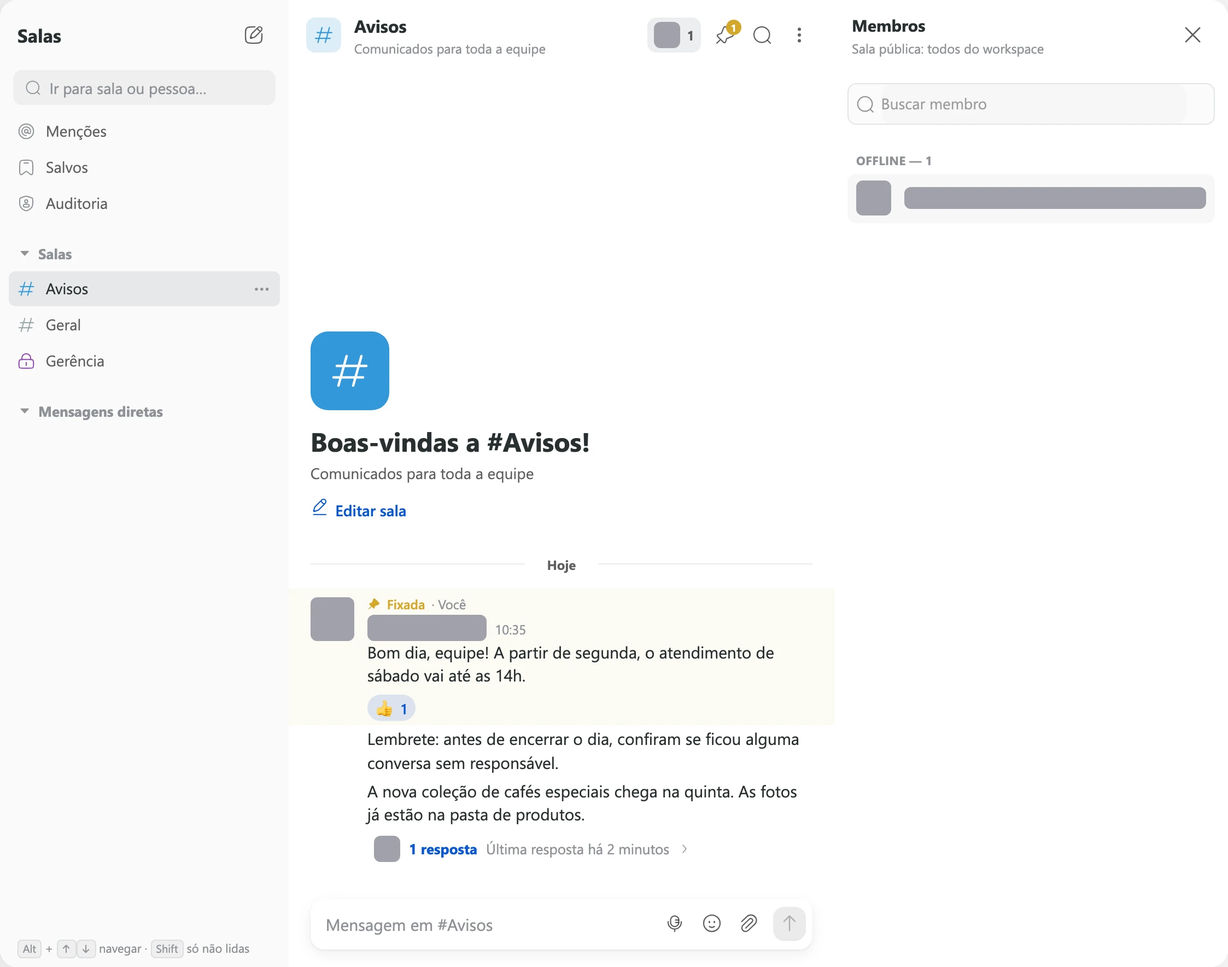
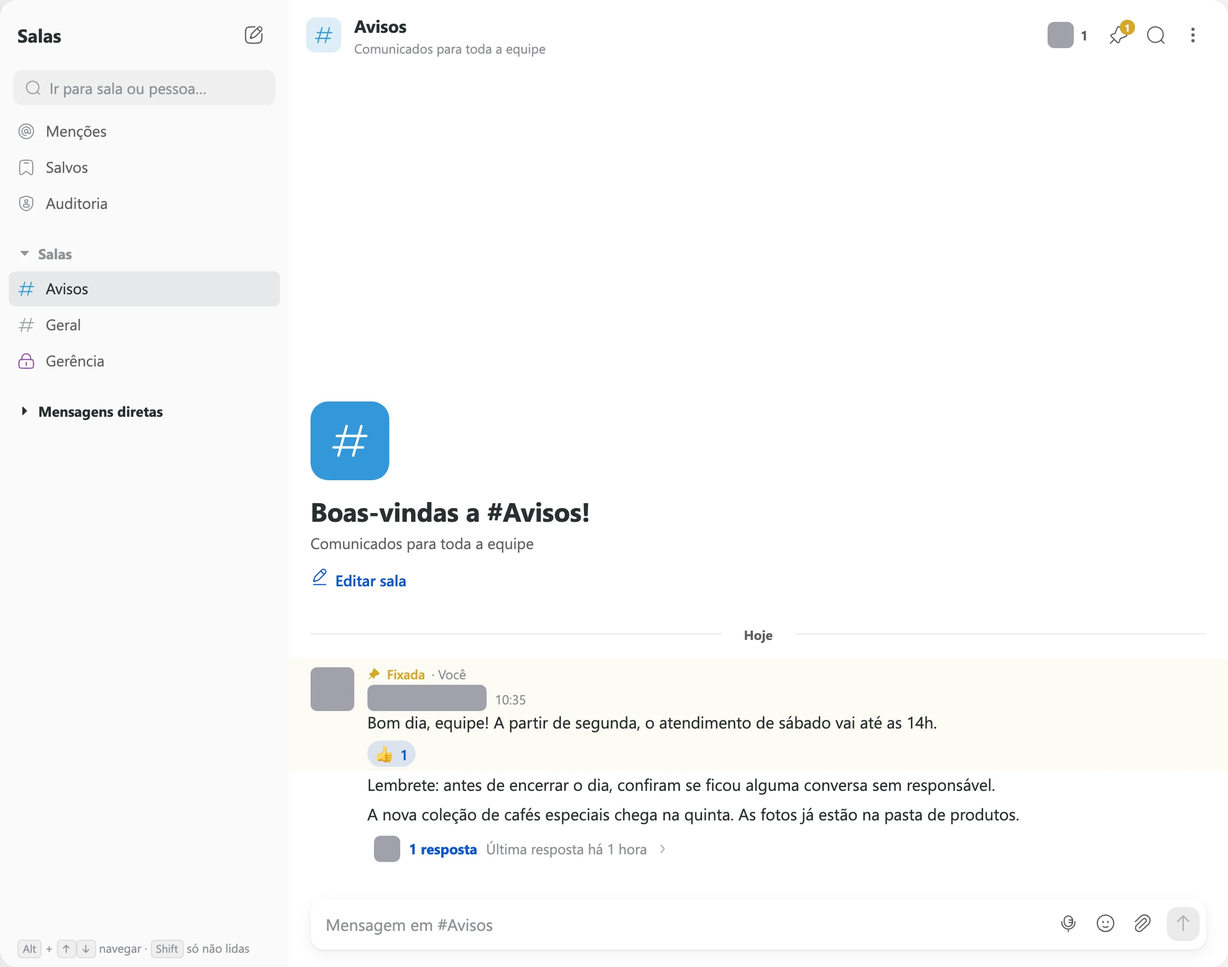
docs(ajuda): Salas, correções da rodada 1 do conselho
- Mensagens diretas por grupo: restrição enunciada como a ajuda da tela; único caminho ensinado é a seção Mensagens diretas; busca do topo só para salas; tirada a restrição de atribuição da lista do @.
- Auditoria: limpar "Ir para sala ou pessoa…" antes de concluir que falta permissão; frontmatter com a pasta do módulo.
- "Apenas no computador" virou "não disponível no app"; seção No celular em usar-salas; sem o botão de janela menor; ordem das mensagens diretas; sem Responder citando na thread; aviso de thread em mensagem direta; erro de reação; dose (toasts e estados vazios ficam na irmã); papéis prontos por extenso.
- Links da nota de avaliação pública para usar-salas#painel-membros; link de criar separado do de editar/clonar/ordenar/excluir; keywords; golden com pergunta de silenciar.
- Prints recapturados (painel sem a seção vazia e sem Membros, barra de ações sem menu, auditoria recortada); seed das salas completa o que faltar sem duplicar.

Origem: web:src/components/rooms/RoomsSidebar.tsx, RoomPanels.tsx, RoomMessageItem.tsx, RoomMessageEditor.tsx, useRoomsRealtime.tsx, RoomTimeline.tsx; web:src/components/navigation/GlobalSearch/useGlobalSearchCommands.tsx; web:src/pages/settings/roles/permissionSections.tsx; web:src/hooks/useAldeia.ts; api:src/modules/rooms/rooms.service.ts; api:src/modules/workspace-defaults/workspace-defaults.constants.ts; mobile:src/domain/rooms.ts, src/app/(tabs)/rooms/index.tsx, src/app/room-edit.tsx

diff --git a/scripts/screenshots/seed.ts b/scripts/screenshots/seed.ts
@@ -450,34 +450,47 @@ async function garantirRespostasRapidas(api: Api) {
  * Salas (prints da seção salas): a sala pública "Avisos" com mensagens internas fictícias da equipe,
  * uma fixada, uma com reação e uma resposta em thread, e a sala privada "Gerência". As mensagens
  * saem em nome da conta de teste (dona do workspace): os prints mascaram nome e foto do autor.
- * Salas são só da equipe: nada é enviado a contato.
+ * Salas são só da equipe: nada é enviado a contato. Cada sala é achada pelo nome e pela privacidade,
+ * e cada mensagem, fixação, reação e resposta só é criada se ainda faltar (rodar de novo não duplica).
  */
 async function garantirSalas(api: Api) {
   const salas = lista(await api.v0('GET', '/rooms'))
-  let avisos = salas.find((r) => r.name === 'Avisos' && r.type !== 'dm')
+  const acharSala = (name: string, privacy: string) => salas.find((r) => r.name === name && r.type !== 'dm' && (r.privacy || 'public') === privacy)
+  const eu = lista(await api.v0('GET', '/operators?limit=100')).find((o) => o.isOwner)
+  let avisos = acharSala('Avisos', 'public')
   if (!avisos) {
     avisos = await api.v0('POST', '/rooms', { name: 'Avisos', description: 'Comunicados para toda a equipe', privacy: 'public', color: '#3498db', memberIds: [] })
   }
-  if (!salas.some((r) => r.name === 'Gerência' && r.type !== 'dm')) {
-    const eu = lista(await api.v0('GET', '/operators?limit=100')).find((o) => o.isOwner)
+  if (!acharSala('Gerência', 'private')) {
     await api.v0('POST', '/rooms', { name: 'Gerência', description: 'Metas e escalas da semana', privacy: 'private', color: '#8e44ad', memberIds: eu ? [eu.id] : [] })
   }
   const avisosId = String(avisos.id || avisos._id)
-  const mensagens = lista(await api.v3('GET', `/rooms/${avisosId}/messages?limit=50`))
-  if (!mensagens.length) {
-    const textos = [
-      'Bom dia, equipe! A partir de segunda, o atendimento de sábado vai até as 14h.',
-      'Lembrete: antes de encerrar o dia, confiram se ficou alguma conversa sem responsável.',
-      'A nova coleção de cafés especiais chega na quinta. As fotos já estão na pasta de produtos.',
-    ]
-    const criadas: any[] = []
-    for (const text of textos) criadas.push(await api.v0('POST', `/rooms/${avisosId}/messages`, { text, type: 'text' }))
-    const [primeira, , terceira] = criadas.map((m) => String(m._id || m.id))
-    await api.v3('POST', `/rooms/${avisosId}/messages/${primeira}/pin`, {})
-    await api.v3('POST', `/rooms/${avisosId}/messages/${primeira}/reactions`, { emoji: '👍' })
-    await api.v3('POST', `/rooms/${avisosId}/messages/${terceira}/thread`, { text: 'Combinado. Vou atualizar as frases rápidas com os novos sabores.', type: 'text' })
+  const textos = [
+    'Bom dia, equipe! A partir de segunda, o atendimento de sábado vai até as 14h.',
+    'Lembrete: antes de encerrar o dia, confiram se ficou alguma conversa sem responsável.',
+    'A nova coleção de cafés especiais chega na quinta. As fotos já estão na pasta de produtos.',
+  ]
+  const resposta = 'Combinado. Vou atualizar as frases rápidas com os novos sabores.'
+  const listar = async () => lista(await api.v3('GET', `/rooms/${avisosId}/messages?limit=50`)).filter((m) => !m.threadId)
+  let mensagens = await listar()
+  for (const text of textos) {
+    if (!mensagens.some((m) => m.text === text)) await api.v0('POST', `/rooms/${avisosId}/messages`, { text, type: 'text' })
   }
-  log(`salas: "Avisos" (pública, ${mensagens.length || 3} mensagens) e "Gerência" (privada)`)
+  mensagens = await listar()
+  const [primeira, , terceira] = textos.map((text) => mensagens.find((m) => m.text === text))
+  const idDe = (m: any) => String(m._id || m.id)
+  if (!primeira.pinnedAt) await api.v3('POST', `/rooms/${avisosId}/messages/${idDe(primeira)}/pin`, {})
+  const meuId = String(eu?.id ?? '')
+  const joinha = (primeira.reactions || []).find((r: any) => r.emoji === '👍')
+  // A rota de reação alterna: só reage se a conta ainda não reagiu com 👍
+  if (!joinha || (meuId && !(joinha.operatorIds || []).map(String).includes(meuId))) {
+    await api.v3('POST', `/rooms/${avisosId}/messages/${idDe(primeira)}/reactions`, { emoji: '👍' })
+  }
+  const thread = await api.v3('GET', `/rooms/${avisosId}/messages/${idDe(terceira)}/thread`)
+  if (!lista(thread?.replies ?? thread).some((m) => m.text === resposta)) {
+    await api.v3('POST', `/rooms/${avisosId}/messages/${idDe(terceira)}/thread`, { text: resposta, type: 'text' })
+  }
+  log(`salas: "Avisos" (pública, ${textos.length} mensagens, fixada, reação e resposta) e "Gerência" (privada)`)
 }
 
 /** Agente de IA criado pelo mesmo caminho do onboarding. Nasce desligado e sem canal. */

diff --git a/llm/salas/usar-salas.md b/llm/salas/usar-salas.md
@@ -10,7 +10,6 @@ fontes:
   - web:src/components/rooms/RoomPanels.tsx
   - web:src/components/rooms/rooms.helpers.ts
   - web:src/components/rooms/useRoomMenu.tsx
-  - web:src/components/rooms/RoomAuditView.tsx
   - web:src/pages/settings/roles/permissionSections.tsx
   - api:src/modules/rooms/rooms.service.ts
   - api:src/modules/rooms/rooms.dto.ts
@@ -27,8 +26,8 @@ verificado_em: 2026-11-26
 ## Onde fica, modos de abrir e atalhos
 
 - **Acesso:** botão **Salas** (ícone **@**) no topo da tela, à direita (não existe item no menu lateral nem em **Configurações**). Mostra número amarelo com o total de não lidas (`99+` a partir de 100); salas silenciadas não entram na conta.
-- **Busca do topo:** **Pesquisar** (`Ctrl+K` / `⌘K`, descrita em [Caixa de entrada: visão geral](/docs/conversas/caixa-de-entrada-do-kinbox)) exibe os grupos **Salas** e **Mensagens Diretas** para quem tem acesso às salas e abre direto na sala ou pessoa escolhida.
-- **Modos de exibição (computador):** alternados pelo botão no topo da lista — na lateral em tela maior (padrão; dica "Abrir as salas em uma janela menor") ou em janela menor presa ao botão **Salas** (dica "Abrir as salas na lateral, em tela maior"). No navegador do celular, exibe uma coluna por vez. Ao abrir sem sala escolhida, abre a primeira sala da lista.
+- **Busca do topo:** **Pesquisar** (`Ctrl+K` / `⌘K`, descrita em [Caixa de entrada: visão geral](/docs/conversas/caixa-de-entrada-do-kinbox)) exibe o grupo **Salas** para quem tem acesso às salas e abre direto na sala escolhida.
+- **Exibição:** no computador, o painel abre na lateral, em tela maior. No navegador do celular, abre em tela cheia, uma coluna por vez. Ao abrir sem sala escolhida, abre a primeira sala da lista.
 - **Colunas e lista:** lista à esquerda (busca "Ir para sala ou pessoa…" sem diferenciar acento ou maiúscula; atalhos **Menções**, **Salvos** e **Auditoria**, que somem enquanto há texto na busca; seções recolhíveis **Salas** e **Mensagens diretas**, com estado salvo no navegador), sala no centro e painel auxiliar à direita (**Membros**, **Mensagens fixadas**, busca ou **Thread**). Em telas largas, **Membros** abre sozinho até ser fechado pelo **X**.
 - **Sinais na lista:** nome em negrito e contagem para não lidas (`99+` a partir de 100); **#** para sala pública e cadeado para sala privada; sino cortado e nome esmaecido para sala silenciada; lápis ("Rascunho") para texto não enviado (salvo por sala no navegador).
 - **Atalhos de teclado:**
@@ -45,8 +44,8 @@ verificado_em: 2026-11-26
 | Ação | Condição |
 | --- | --- |
 | Usar as salas e receber avisos delas | Todo membro sem a restrição **Não pode acessar as salas** (quadro **Restrições** da seção **Outros**). O proprietário nunca é bloqueado |
-| Ver e enviar mensagens diretas para qualquer colega | Acesso às salas e ausência da restrição **Só pode ver membros que sejam dos seus grupos nos DMs.** (quadro **Restrições** da seção **Outros**; com ela, só colegas com algum grupo em comum). O proprietário não sofre a restrição |
-| Criar, editar, clonar, ordenar e excluir salas; adicionar pessoas em sala privada | Permissão **Salas** (seção **Gerenciamento do Ambiente**) ou proprietário. Os papéis prontos **Atendente** e acima trazem essa permissão. A ordem das salas vale para todo o workspace |
+| Ver e mandar mensagens diretas | Acesso às salas. Com a restrição **Só pode ver membros que sejam dos seus grupos nos DMs.** (quadro **Restrições** da seção **Outros**), o membro só vê e manda mensagem direta para colegas que têm algum grupo em comum com ele. O proprietário não sofre a restrição |
+| Criar, editar, clonar, ordenar e excluir salas; adicionar pessoas em sala privada | Permissão **Salas** (seção **Gerenciamento do Ambiente**) ou proprietário. Os papéis prontos **Atendente**, **Supervisor** e **Administrador** trazem essa permissão. A ordem das salas vale para todo o workspace |
 | Mandar mensagem, reagir, responder, fixar/desafixar, salvar e buscar | Qualquer membro com acesso à sala (não depende da permissão **Salas**) |
 | Editar mensagem | Apenas o autor da mensagem, e apenas mensagens de texto (sem prazo) |
 | Excluir mensagem | O autor (próprias mensagens) ou o proprietário (qualquer mensagem). A permissão **Salas** não permite excluir mensagens de outros membros |
@@ -58,7 +57,7 @@ verificado_em: 2026-11-26
 ## Quem vê o quê
 
 - **Sala pública:** todos os membros do workspace que têm acesso às salas. O painel **Membros** exibe "Sala pública: todos do workspace".
-- **Sala privada:** apenas os membros escolhidos em **Membros** (uma sala privada precisa ter pelo menos um membro; na criação, o criador já vem marcado e não pode se remover) e o **proprietário**, que vê todas as salas do workspace, inclusive as privadas de que não participa.
+- **Sala privada:** apenas os membros escolhidos em **Membros** (na criação no computador, quem cria já vem marcado e não pode se remover; no app, você precisa permanecer na lista de membros de uma sala privada) e o **proprietário**, que vê todas as salas do workspace, inclusive as privadas de que não participa.
 - **Mensagem direta:** aparece na lista apenas das duas pessoas. Mensagens diretas de outros membros não aparecem na lista nem na busca **Todas as salas** do proprietário. A tela exibe "Este é o início da sua conversa com {{name}}. Só vocês dois veem estas mensagens.", mas o proprietário e quem tem **Auditar mensagens diretas** podem lê-la em modo somente leitura pela **Auditoria**, exceto as que envolvem o proprietário.
 - **Sala Geral:** todo workspace novo nasce com a sala pública **Geral**, que é uma sala comum e pode ser editada ou excluída por quem tem a permissão **Salas** ou pelo proprietário.
 - **Cliente:** nunca vê nada das salas nem das mensagens diretas; nada é enviado por canal, bot ou agente de IA. Para notas internas dentro de uma conversa com contato, veja [Atender uma conversa: responder, notas, resolver e reabrir](/docs/conversas/gerenciar-conversas).
@@ -68,23 +67,22 @@ verificado_em: 2026-11-26
 
 - **Arquivos:** até **10 arquivos por envio** (passando disso: "Envie no máximo 10 arquivos"). Cada arquivo vira uma mensagem separada, e o texto digitado vai em uma mensagem própria. Aceita clipe **Anexar arquivo**, colar no campo ou arrastar para a sala ("Solte para enviar").
 - **Áudio:** gravação pelo microfone **Gravar áudio** apenas fora de threads.
-- **Limite de texto:** até **10.000 caracteres** na edição de mensagens e nas respostas de thread.
 - **Formatação e emojis:** `*negrito*` ou `**negrito**`, `_itálico_`, `~riscado~`, `` `código` ``, bloco entre ```` ``` ````, citação com `>` no começo da linha; links ficam clicáveis. Mensagem composta apenas por emojis (até 6) aparece grande. Digitar `:` e duas letras sugere até 8 emojis.
 - **Indicador de digitação:** mostra "{{name}} está digitando", "{{a}} e {{b}} estão digitando" ou "Várias pessoas estão digitando" abaixo da sala.
 - **Falha no envio:** mensagem que falhou fica marcada como "Erro ao enviar" com o link **Tentar novamente** (para texto). Em mensagem direta, falha no primeiro envio mostra "Erro ao enviar DM" e devolve o texto ao campo. As ações ficam indisponíveis em mensagens ainda enviando ou com erro.
-- **Menções (`@`):** abre **Mencionar** com até 8 membros ativos que já aceitaram o convite. Menciona uma pessoa por vez (não existe menção coletiva). Se o papel tiver a restrição **Somente pode atribuir para quem pertence ao grupo do membro** (seção **Conversas**), a lista do **@** mostra apenas colegas que têm algum grupo em comum com você.
-- **Reações:** até **30 emojis diferentes por mensagem** (ao atingir: "Limite de reações da mensagem atingido"). Passar o mouse mostra "{{names}} reagiu com {{emoji}}"; clicar de novo no mesmo emoji remove a reação.
-- **Responder citando:** o campo mostra "Respondendo" com nome e início da mensagem; clicar na citação leva à original. Se a original foi excluída, mostra "Mensagem original não encontrada".
+- **Menções (`@`):** abre **Mencionar** com até 8 membros ativos que já aceitaram o convite. Menciona uma pessoa por vez (não existe menção coletiva).
+- **Reações:** até **30 emojis diferentes por mensagem** (ao atingir: "Limite de reações da mensagem atingido"; se a reação falhar: "Não foi possível reagir. Tente novamente."). Passar o mouse mostra "{{names}} reagiu com {{emoji}}"; clicar de novo no mesmo emoji remove a reação.
+- **Responder citando:** o campo mostra "Respondendo" com nome e início da mensagem; clicar na citação leva à original. Se a original foi excluída, mostra "Mensagem original não encontrada". Não existe dentro da thread.
 - **Thread:** respostas ficam agrupadas no painel **Thread** (não aparecem soltas na sala e não há opção de enviar também na sala). Responder a uma resposta continua na mesma thread. Carrega até **500 respostas**.
-- **Editar:** marca a mensagem com "(editado)". Mensagens de erro: "Não foi possível editar a mensagem", "Só o autor pode editar a mensagem", "Só mensagens de texto podem ser editadas".
-- **Excluir:** confirmação "Tem certeza que deseja excluir essa mensagem?" (com thread, inclui "As respostas da thread também serão excluídas.") e aviso "Mensagem removida". A exclusão é definitiva, remove para todos e retira dos **Salvos** de todos.
+- **Editar:** marca a mensagem com "(editado)". Mensagens de erro: "Não foi possível editar a mensagem", "Só o autor pode editar a mensagem", "Só mensagens de texto podem ser editadas". Salvar a edição sem texto (ou sem mudança) só fecha a edição, sem alterar a mensagem.
+- **Excluir:** confirmação "Tem certeza que deseja excluir essa mensagem?" (com thread, inclui "As respostas da thread também serão excluídas.") e aviso "Mensagem removida". A opção **Excluir** aparece só para o autor e para o proprietário. A exclusão é definitiva, remove para todos e retira dos **Salvos** de todos.
 - **Copiar texto:** mostra "Copiado"; em mensagem de arquivo, copia a descrição curta (por exemplo, "📷 Imagem").
 - **Fixar na sala:** mostra "Mensagem fixada na sala" ou "Mensagem desafixada", exibe o selo **Fixada** com quem fixou e funciona também em mensagens diretas. O painel **Mensagens fixadas** lista até **100** mensagens (mais recentes primeiro) e exibe "Nada fixado ainda" quando vazio.
 - **Salvar para depois:** privado de cada membro; mostra "Mensagem salva. Veja em Salvos". O painel **Salvos** lista até **200** mensagens ("Nada salvo ainda" quando vazio). Se a mensagem for excluída ou o membro perder acesso à sala, ela sai dos salvos.
 
 ## Mensagens diretas, Menções, Salvos e busca
 
-- **Mensagens diretas:** passam a existir no primeiro envio; não é possível mandar mensagem direta para si mesmo; listam os colegas que já aceitaram o convite (membros inativos aparecem esmaecidos); topo exibe "Online", "Online · Indisponível" ou "Offline"; "Visto" aparece abaixo da última mensagem lida (exclusivo de mensagem direta). Sem painel **Membros** nem menu **⋮** no computador. Se um colega for removido do workspace, a conversa continua e aparece como "Mensagem direta".
+- **Mensagens diretas:** passam a existir no primeiro envio; não é possível mandar mensagem direta para si mesmo; listam os colegas que já aceitaram o convite, com quem conversou com você por último primeiro (membros inativos aparecem esmaecidos); topo exibe "Online", "Online · Indisponível" ou "Offline"; "Visto" aparece abaixo da última mensagem lida (exclusivo de mensagem direta). Sem painel **Membros** nem menu **⋮** no computador. Se um colega for removido do workspace, a conversa continua e aparece como "Mensagem direta".
 - **Menções:** reúne mensagens de todas as salas, 30 por vez com **Carregar mais** (mensagens que você mesmo escreveu não entram; vazio: "Nenhuma menção por aqui"). Clicar leva à mensagem e abre a thread, se for resposta.
 - **Buscar mensagens:** painel **Buscar mensagens** (lupa no topo), campo "Buscar por texto…", escopo **Nesta sala** (**Nesta conversa** em mensagem direta) ou **Todas as salas** (inclui suas mensagens diretas, nunca as dos outros; inclui respostas de threads). Exige entre **2 e 100 caracteres** ("Digite pelo menos 2 letras para buscar." / "A busca precisa ter entre 2 e 100 caracteres"), não diferencia maiúsculas, busca apenas no texto (não por autor nem arquivo), retorna até **30 resultados** e exibe "Nenhuma mensagem encontrada" quando não há resultado.
 
@@ -93,7 +91,7 @@ verificado_em: 2026-11-26
 - **Leitura:** abrir a sala marca como lida (ou **Marcar como lida** no menu da sala). Primeira abertura exibe a linha vermelha **Novas**; ao ler mensagens antigas, aparece o botão de novas mensagens / "Ir para o fim". Separadores "Hoje" e "Ontem"; mensagens antigas carregam ao rolar.
 - **Silenciar:** por pessoa. Aviso "Sala silenciada: você só será notificado quando for mencionado" / "Notificações da sala ativadas". Não soma no botão **Salas**, fica esmaecida com sino cortado na lista e mostra "Sala silenciada" no topo. Mensagem direta não tem menu para silenciar no computador (no app, segurar a linha exibe **Silenciar**).
 - **Avisos no navegador (Kinbox aberta):** ao chegar mensagem de outra pessoa, avisa se for mensagem direta, sala não silenciada ou sala silenciada que menciona você. Com o painel **Salas** fechado: aviso no canto por 5 segundos com autor, início do texto e sala (clicar abre a sala). Com o painel aberto em outra sala: apenas som. Com a própria sala aberta: nada, e a mensagem já conta como lida. O som segue **Quando receber mensagem de time** em **Configurações** → **Notificações** (ligada por padrão).
-- **Avisos em thread:** resposta em thread avisa quem foi mencionado, quem participa da thread e o autor da mensagem original, mesmo em sala silenciada, se a pessoa não estiver com aquela thread aberta.
+- **Avisos em thread:** resposta em thread avisa quem foi mencionado, quem participa da thread, o autor da mensagem original e, em mensagem direta, a outra pessoa, mesmo em sala silenciada, se a pessoa não estiver com aquela thread aberta.
 - **Push (navegador fechado e celular):** a opção **Mensagem de time** (no app: **Mensagens diretas e menções**) envia push apenas quando mencionam você em uma sala ou mandam uma mensagem direta; mensagens comuns de sala sem menção não geram push. No app, salas silenciadas não geram push ("Salas silenciadas não geram alertas."). Veja [Receber notificações no navegador e no celular](/docs/conta/notificacoes).
 
 ## Auditoria de mensagens diretas
@@ -107,6 +105,7 @@ verificado_em: 2026-11-26
 ## No celular
 
 - O app da Kinbox para celular tem a aba **Salas** (entre **Conversas** e **Agenda**) com o mesmo conteúdo do computador.
-- Algumas ações só existem no computador (não estão disponíveis no app): reagir, responder em thread, editar mensagem, fixar, salvar, buscar mensagens dentro da sala, listas **Menções** e **Salvos**, **Auditoria** e a lista **@** para mencionar (menções feitas no computador aparecem destacadas no app).
+- Não estão disponíveis no app: reagir, responder em thread, editar mensagem, fixar, salvar, buscar mensagens dentro da sala, listas **Menções** e **Salvos**, **Auditoria** e a lista **@** para mencionar (menções feitas no computador aparecem destacadas no app).
+- Pelo navegador do celular, sem o app, o painel **Salas** abre em tela cheia, uma coluna por vez.
 
 Veja os guias completos em [Salas: o chat interno da equipe](/docs/salas/visao-geral), [Conversar nas salas: mensagens diretas, menções e threads](/docs/salas/usar-salas) e [Auditar as mensagens diretas dos membros](/docs/salas/auditar-mensagens-diretas).

diff --git a/llm/faq/salas-no-celular.md b/llm/faq/salas-no-celular.md
@@ -24,18 +24,18 @@ Posso usar as salas pelo celular?
 
 ## Resposta
 
-Sim. No app da Kinbox para celular, a aba **Salas** mostra as salas e as mensagens diretas da equipe: dá para ler, escrever, mandar fotos, arquivos e áudio, apagar as próprias mensagens, silenciar salas e criar ou editar salas (com a permissão **Salas**). Algumas coisas só existem no computador: reagir, responder em thread, editar mensagem, fixar, salvar, buscar mensagens, a lista de **Menções** e a **Auditoria**.
+Sim. No app da Kinbox para celular, a aba **Salas** mostra as salas e as mensagens diretas da equipe: dá para ler, escrever, mandar fotos, arquivos e áudio, apagar as próprias mensagens, silenciar salas e criar ou editar salas (com a permissão **Salas**). Algumas coisas não estão disponíveis no app: reagir, responder em thread, editar mensagem, fixar, salvar, buscar mensagens, a lista de **Menções** e a **Auditoria**.
 
 A aba **Salas** é a segunda aba do app (entre **Conversas** e **Agenda**) e mostra o total de mensagens não lidas (`99+` a partir de 100), sem contar salas silenciadas. Para quem tem a restrição **Não pode acessar as salas**, a aba exibe "Sem acesso às salas" — "Seu perfil não permite acessar o chat do time neste workspace." — e o botão **Trocar workspace** (o proprietário nunca é bloqueado).
 
 O que dá para fazer no app:
 
-- **Lista:** buscar em "Buscar sala ou colega" nas seções **Salas** e **Mensagens diretas**. Segurar uma linha mostra **Ver perfil** (em mensagem direta), **Marcar como lida** e **Silenciar** / **Reativar notificações**.
+- **Lista:** buscar em "Buscar sala ou colega" nas seções **Salas** e **Mensagens diretas**. Segurar uma linha mostra **Ver perfil** (em mensagem direta), **Marcar como lida** (quando há mensagens não lidas) e **Silenciar** / **Reativar notificações**.
 - **Mensagens:** ler (30 por vez), escrever, anexar pelo **+** (**Câmera**, **Fotos** e **Arquivos**, até 10 por vez) e gravar áudio. Segurar uma mensagem abre **Responder** (citando, sem thread), **Copiar** (texto) e **Apagar** (apenas o autor ou o proprietário).
-- **Mensagens diretas:** tocar no colega em **Mensagens diretas**; a conversa nasce no primeiro envio. Com a restrição **Só pode ver membros que sejam dos seus grupos nos DMs.**, só aparecem colegas do seu grupo.
-- **Criar e gerenciar salas (com a permissão Salas ou sendo proprietário):** tocar em **Nova sala**, preencher **Nome**, descrição, **Cor**, **Privacidade** (**Pública · todo o workspace** ou **Privada · só membros escolhidos**) e **Membros** e salvar em **Salvar sala**. Ao tocar no nome da sala no topo, aparecem **Descrição**, **Notificações** (com a chave **Silenciar**), **Membros** e, para quem tem a permissão **Salas**, **Editar sala** e **Excluir sala**.
+- **Mensagens diretas:** tocar no colega em **Mensagens diretas**; a conversa nasce no primeiro envio. Com a restrição **Só pode ver membros que sejam dos seus grupos nos DMs.**, você só vê e manda mensagem direta para colegas que têm algum grupo em comum com você.
+- **Criar e gerenciar salas (com a permissão Salas ou sendo proprietário):** tocar em **Nova sala**, preencher **Nome**, descrição, **Cor**, **Privacidade** (**Pública · todo o workspace** ou **Privada · só membros escolhidos**) e, só em sala privada, **Membros**, e salvar em **Salvar sala**. Sem nome, o app avisa "Dê um nome para a sala."; numa sala privada, você precisa continuar na lista de membros ("Você precisa ser membro de uma sala privada."). Ao tocar no nome da sala no topo, aparecem **Descrição**, **Notificações** (com a chave **Silenciar**), **Membros** e, para quem tem a permissão **Salas**, **Editar sala** e **Excluir sala**.
 
-O que só existe no computador (não está disponível no app): reagir, responder em thread, editar mensagem, fixar, salvar, buscar mensagens dentro da sala, listas **Menções** e **Salvos**, **Auditoria** e a lista **@** para mencionar (menções feitas no computador aparecem destacadas no app).
+O que não está disponível no app: reagir, responder em thread, editar mensagem, fixar, salvar, buscar mensagens dentro da sala, listas **Menções** e **Salvos**, **Auditoria** e a lista **@** para mencionar (menções feitas no computador aparecem destacadas no app).
 
 - **Notificações:** em **Você** → **Notificações**, seção **Salas**, a opção **Mensagens diretas e menções** (ligada por padrão) avisa menções e mensagens diretas. Salas silenciadas não geram push no app ("Salas silenciadas não geram alertas."), e o aviso não se repete com a sala aberta. Veja [Receber notificações no navegador e no celular](/docs/conta/notificacoes).
 - **Sem internet:** a lista salva continua aparecendo ("Sem conexão · mostrando salas salvas") e o envio fica desativado.

diff --git a/llm/faq/conta-nao-recebo-notificacoes.md b/llm/faq/conta-nao-recebo-notificacoes.md
@@ -40,7 +40,7 @@ Principais causas quando os avisos não chegam:
 - **Outro workspace:** as opções de **Push** valem só para o workspace aberto; configure também nos outros workspaces de que você participa.
 - **Som não toca:** o interruptor correspondente está desligado no cartão **Som**, a Kinbox não está aberta, você está **Indisponível** (manualmente, por inatividade ou por horário do papel; os sons de nova mensagem e de nova conversa só tocam com você disponível) ou a conversa não é a que está aberta nem está na visão ou no filtro selecionado da **Caixa de entrada**. Com várias abas abertas, o som toca só em uma. Depois de "Você foi desconectado por inatividade.", nenhum som toca até você clicar em **Reconectar**.
 - **No celular:** confira no app, em **Você** → **Notificações**, se **Receber notificações** está ligado (ele é independente de **Habilitar notificações de desktop**); se **Quando receber** estiver em **Quando não estiver usando o web**, o celular não avisa enquanto você usa a Kinbox no navegador (aba visível e em uso); com **Só no horário comercial** ligado, o app só avisa dentro do horário padrão do workspace. Com a conversa ou a sala aberta no app, o aviso não se repete, e salas que você silenciou não geram push no app.
-- **Salas bloqueadas:** membros com a restrição **Não pode acessar as salas** no papel não recebem push de salas no app. No app, sala silenciada também não gera push (veja [Conversar nas salas: mensagens diretas, menções e threads](/docs/salas/usar-salas)).
+- **Salas bloqueadas:** membros com a restrição **Não pode acessar as salas** no papel não recebem push de salas no app. Veja [Conversar nas salas: mensagens diretas, menções e threads](/docs/salas/usar-salas).
 - **Não recebo novas conversas (diferente de não receber avisos):** se novas conversas não estão caindo para você pela atribuição automática, confira se você não está **Indisponível** (manualmente, por inatividade ou por horário do papel).
 
 Veja como ajustar em [Receber notificações no navegador e no celular](/docs/conta/notificacoes) e [Ficar disponível ou indisponível](/docs/conta/disponibilidade).
